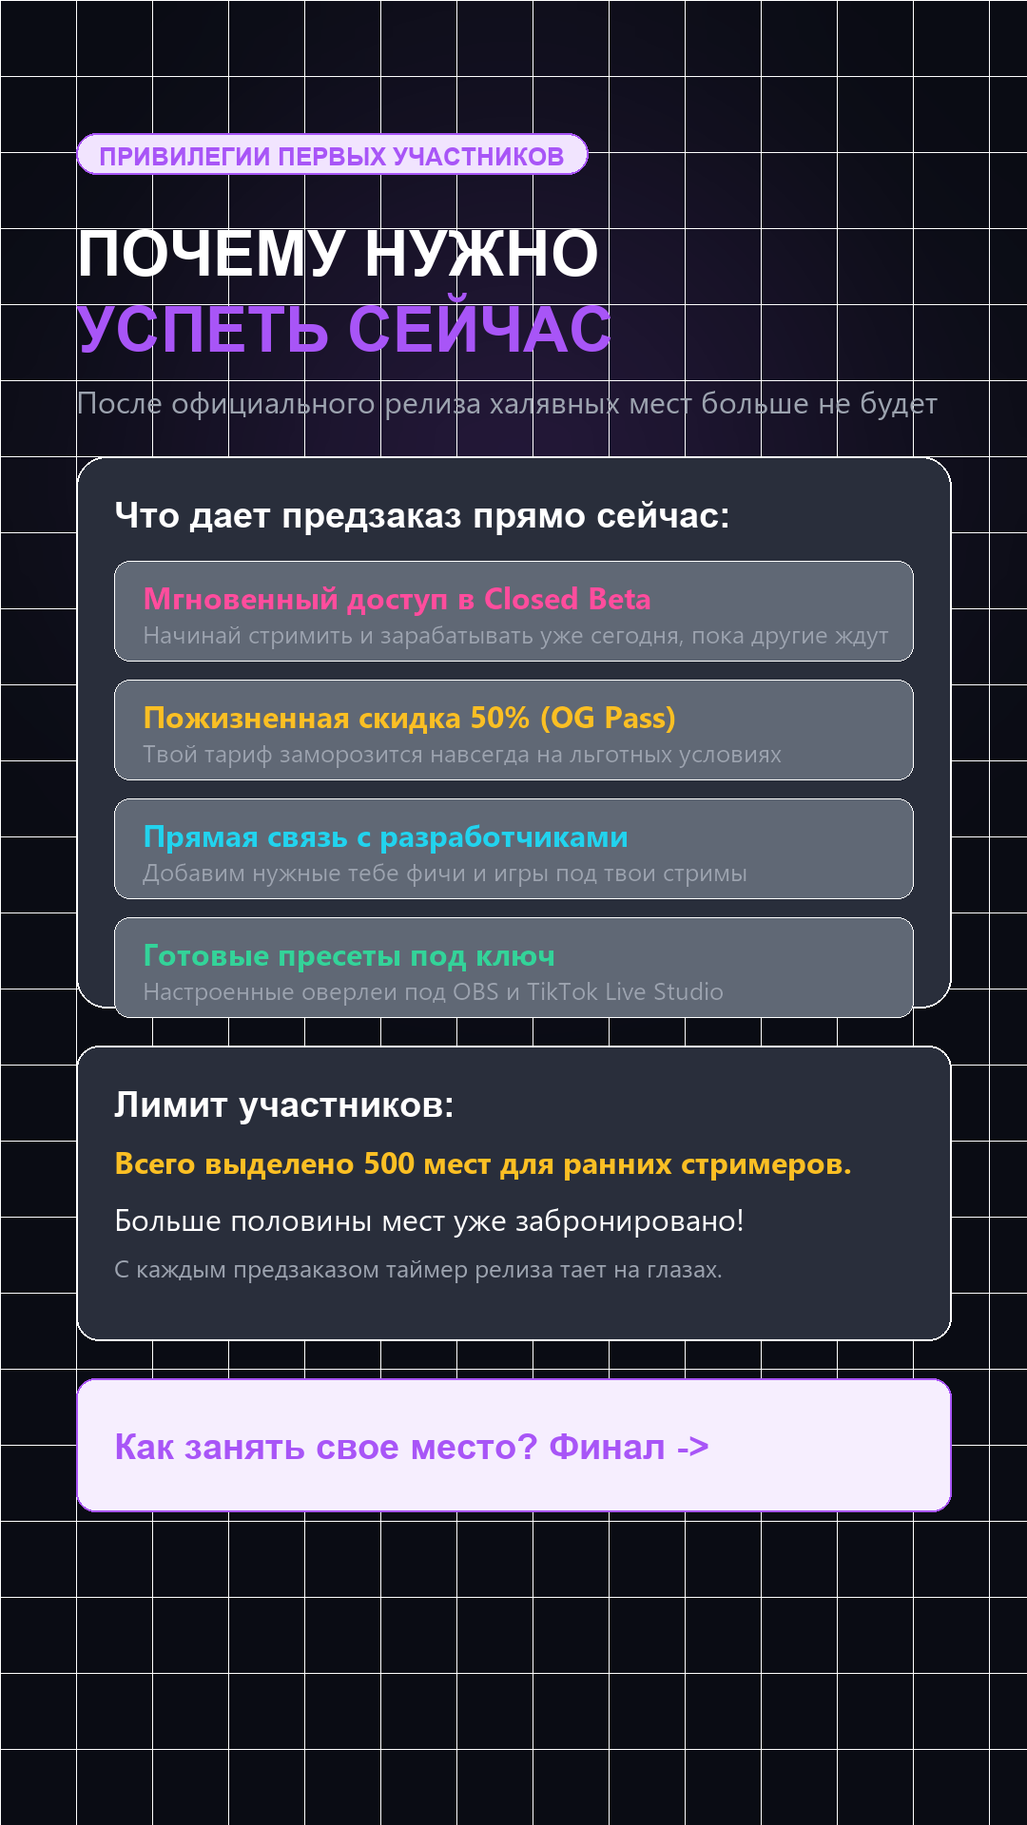
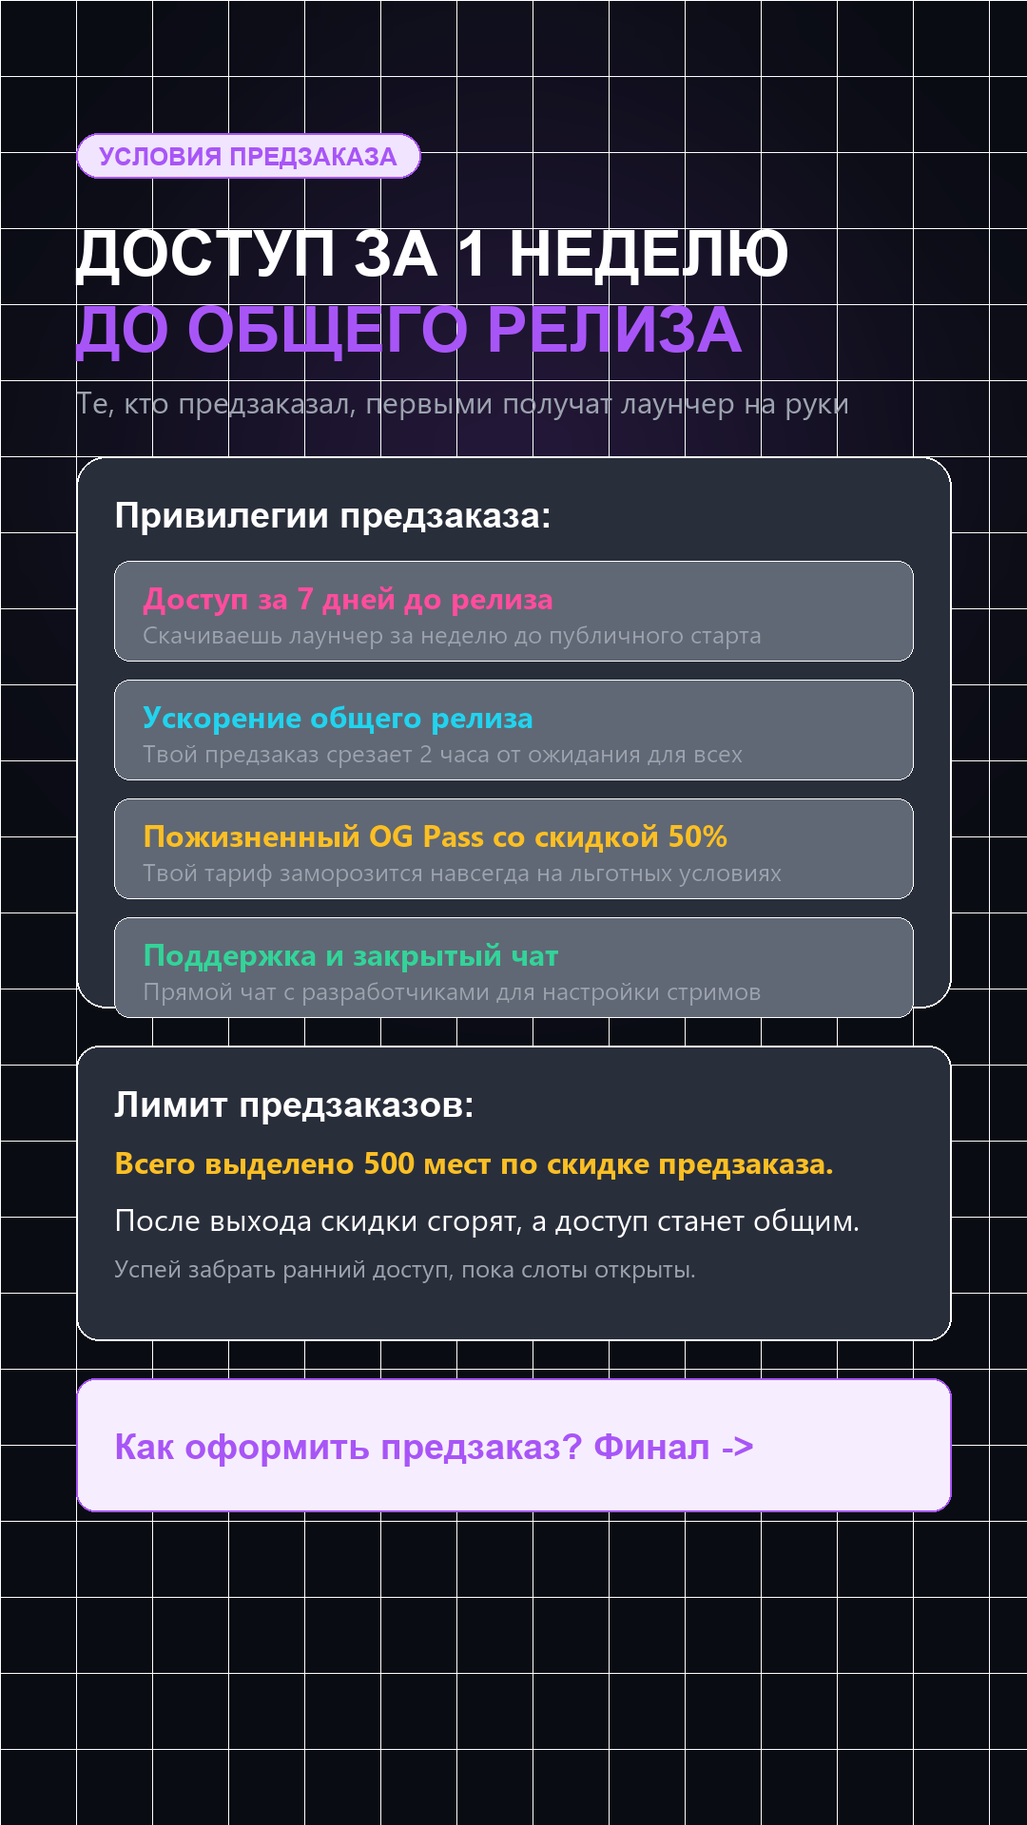
Update pre-order campaign: 1-week early access before public release
Clarify offering: launcher is in pre-order stage, pre-order buyers
receive exclusive early access 7 days prior to public launch, and
each pre-order cuts 2 hours from the community release countdown.

diff --git a/tools/gen-tiktok-preorder.py b/tools/gen-tiktok-preorder.py
@@ -2,10 +2,10 @@ import os
 import math
 from PIL import Image, ImageDraw, ImageFont, ImageFilter
 
-OUTPUT_DIR = os.path.join(os.path.dirname(__file__), "..", "branding", "tiktok_preorder")
+OUTPUT_DIR = os.path.abspath(os.path.normpath(os.path.join(os.path.dirname(__file__), "..", "branding", "tiktok_preorder")))
 os.makedirs(OUTPUT_DIR, exist_ok=True)
 
-ICON_PATH = os.path.join(os.path.dirname(__file__), "..", "branding", "chlauncher-app-icon.png")
+ICON_PATH = os.path.abspath(os.path.normpath(os.path.join(os.path.dirname(__file__), "..", "branding", "chlauncher-app-icon.png")))
 app_icon = None
 if os.path.exists(ICON_PATH):
     try:
@@ -82,12 +82,12 @@ def draw_badge(draw, text, x, y, accent_color, bg_alpha=40):
 def draw_card(draw, x, y, w, h, radius=24, border_color=CARD_BORDER, fill_color=CARD_BG):
     draw.rounded_rectangle([x, y, x + w, y + h], radius=radius, fill=fill_color, outline=border_color, width=2)
 
-# ==================== SLIDE 1: HOOK (КАЖДЫЙ ПРЕДЗАКАЗ УСКОРЯЕТ РЕЛИЗ) ====================
+# ==================== SLIDE 1: HOOK (ОТКРЫТ ТОЛЬКО ПРЕДЗАКАЗ) ====================
 def make_slide1():
     img = draw_gradient_background(glow_color=PINK, glow_y=460)
     draw = ImageDraw.Draw(img)
     
-    draw_badge(draw, "СОБЫТИЕ СЕЗОНА ДЛЯ СТРИМЕРОВ", 80, 140, PINK)
+    draw_badge(draw, "ТОЛЬКО ПРЕДЗАКАЗ · РЕЛИЗ СКОРО", 80, 140, PINK)
     
     if app_icon:
         icon_resized = app_icon.resize((170, 170), Image.Resampling.LANCZOS)
@@ -99,19 +99,19 @@ def make_slide1():
     
     # Progress Tracker Card
     draw_card(draw, 80, 700, 920, 640, radius=32, fill_color=(20, 26, 44, 240), border_color=PINK)
-    draw.text((120, 740), "Шкала ускорения релиза:", font=font_card_title, fill=WHITE)
+    draw.text((120, 740), "Как работает ускорение релиза:", font=font_card_title, fill=WHITE)
     
     # Countdown clock & progress bar
-    draw.text((120, 805), "РЕЛИЗ ЧЕРЕЗ: 4 ДНЯ 18 ЧАСОВ", font=font_body_bold, fill=AMBER)
+    draw.text((120, 805), "ПРИМЕРНАЯ ДАТА: ЧЕРЕЗ 2 НЕДЕЛИ", font=font_body_bold, fill=AMBER)
     draw.rounded_rectangle([120, 855, 960, 880], radius=10, fill=(255, 255, 255, 25))
     draw.rounded_rectangle([120, 855, 740, 880], radius=10, fill=PINK)
-    draw.text((120, 895), "72% шкалы заполнено (+260 предзаказов)", font=font_small, fill=GRAY)
+    draw.text((120, 895), "Каждый предзаказ приближает дату релиза", font=font_small, fill=GRAY)
     
     rules = [
-        ("Каждый предзаказ", "-2 ЧАСА до всеобщего релиза лаунчера", PINK),
-        ("Первые участники", "Доступ к закрытой бете УЖЕ СЕГОДНЯ", CYAN),
-        ("OG-статус навсегда", "Скидка 50% на все будущие обновления", EMERALD),
-        ("Кто первый зашел", "Тот снимает сливки с TikTok Live ниши", AMBER),
+        ("Каждый предзаказ", "-2 ЧАСА от общего времени ожидания", PINK),
+        ("Главный бонус", "Доступ к софту ЗА 1 НЕДЕЛЮ ДО РЕЛИЗА", EMERALD),
+        ("Старт без толпы", "Настроишь стримы раньше, чем набегут все", CYAN),
+        ("Пожизненный OG", "Скидка 50% на все тарифы навсегда", AMBER),
     ]
     
     ry = 950
@@ -122,31 +122,31 @@ def make_slide1():
         ry += 90
         
     draw_card(draw, 80, 1375, 920, 170, radius=24, fill_color=(255, 77, 157, 30), border_color=PINK)
-    draw.text((120, 1410), "КАК ЗАРАБАТЫВАЮТ НА ИГРАХ В TIKTOK?", font=font_card_title, fill=PINK)
-    draw.text((120, 1465), "Свайпай дальше — показываем цифры доходов ->", font=font_body, fill=WHITE)
+    draw.text((120, 1410), "ЗАЧЕМ ОФОРМЛЯТЬ ПРЕДЗАКАЗ СЕЙЧАС?", font=font_card_title, fill=PINK)
+    draw.text((120, 1465), "Свайпай дальше — показываем заработок ->", font=font_body, fill=WHITE)
     
     return img
 
-# ==================== SLIDE 2: MONEY & MARKET (СКОЛЬКО ТУТ ЗАРАБАТЫВАЮТ) ====================
+# ==================== SLIDE 2: MONEY & MARKET (ПОЧЕМУ НУЖНО ЗАЙТИ ПЕРВЫМ) ====================
 def make_slide2():
     img = draw_gradient_background(glow_color=EMERALD, glow_y=500)
     draw = ImageDraw.Draw(img)
     
-    draw_badge(draw, "ЗАРАБОТОК НА TIKTOK СТРИМАХ", 80, 140, EMERALD)
+    draw_badge(draw, "РЫНОК СТРИМОВ TIKTOK LIVE", 80, 140, EMERALD)
     
-    draw.text((80, 230), "ОТ 50 000 ДО", font=font_hero, fill=WHITE)
-    draw.text((80, 310), "300 000 РУБЛЕЙ", font=font_hero, fill=EMERALD)
-    draw.text((80, 400), "Интерактивные стримы приносят в 10 раз больше обычных", font=font_body, fill=GRAY)
+    draw.text((80, 230), "КТО ПЕРВЫЙ —", font=font_hero, fill=WHITE)
+    draw.text((80, 310), "ТОТ ЗАБИРАЕТ ВСЁ", font=font_hero, fill=EMERALD)
+    draw.text((80, 400), "Интерактивные стримы в TikTok сейчас приносят максимум", font=font_body, fill=GRAY)
     
     # Income breakdown card
     draw_card(draw, 80, 480, 920, 560, radius=32)
-    draw.text((120, 520), "Откуда берутся деньги в эфирах:", font=font_card_title, fill=WHITE)
+    draw.text((120, 520), "Что дает ранний старт на 1 неделю раньше:", font=font_card_title, fill=WHITE)
     
     incomes = [
-        ("Подарки за триггеры в играх", "Зрители спавнят TNT в Minecraft или мобов в Roblox за монеты", EMERALD),
-        ("Субатон-таймер эфира", "Хотят продолжения стрима? Донатят на продление времени", AMBER),
-        ("Платная озвучка комментариев", "Сообщения с донатом озвучиваются в приоритете", CYAN),
-        ("Донат-колесо и рулетки", "Зрители крутят рулетку наказаний и заданий для стримера", PINK),
+        ("Свободная ниша без конкурентов", "Пока другие ждут публичного релиза, ты уже в рекомендациях", EMERALD),
+        ("Первые донаты зрителей", "Зрители еще не привыкли к играм и активно донатят", AMBER),
+        ("Быстрый набор подписчиков", "Стримы с интерактивом алгоритмы TikTok бустят в ТОП", CYAN),
+        ("Доход от 50 000 до 300 000 руб", "Интерактивные игры приносят в 10 раз больше обычных стримов", PINK),
     ]
     
     iy = 585
@@ -157,11 +157,11 @@ def make_slide2():
         iy += 125
         
     draw_card(draw, 80, 1080, 920, 330, radius=24)
-    draw.text((120, 1120), "Почему обычные стримы проигрывают:", font=font_card_title, fill=WHITE)
+    draw.text((120, 1120), "Сравнение доходов на стримах:", font=font_card_title, fill=WHITE)
     facts = [
         "- Обычный разговорный стрим: 100 - 300 руб в час",
         "- Интерактивные игры: 1 500 - 5 000 руб в час",
-        "- Алгоритмы TikTok продвигают стримы с интерактивом!",
+        "- Доступ за неделю до всех = собрать всю аудиторию!",
     ]
     fy = 1185
     for f in facts:
@@ -169,7 +169,7 @@ def make_slide2():
         fy += 58
         
     draw_card(draw, 80, 1450, 920, 140, radius=20, fill_color=(52, 211, 153, 25), border_color=EMERALD)
-    draw.text((120, 1500), "Что входит в chlauncher? Смотри дальше ->", font=font_card_title, fill=EMERALD)
+    draw.text((120, 1500), "Что будет внутри лаунчера? Смотри дальше ->", font=font_card_title, fill=EMERALD)
     
     return img
 
@@ -178,11 +178,11 @@ def make_slide3():
     img = draw_gradient_background(glow_color=CYAN, glow_y=500)
     draw = ImageDraw.Draw(img)
     
-    draw_badge(draw, "ПОЛНЫЙ АРСЕНАЛ СТРИМЕРА", 80, 140, CYAN)
+    draw_badge(draw, "АРСЕНАЛ ДЛЯ ЗАРАБОТКА В ЭФИРАХ", 80, 140, CYAN)
     
     draw.text((80, 230), "ВСЕ ИНСТРУМЕНТЫ", font=font_hero, fill=WHITE)
-    draw.text((80, 310), "В ОДНОМ МЕСТЕ", font=font_hero, fill=CYAN)
-    draw.text((80, 400), "Больше не нужно запускать 10 разных сайтов и расширений", font=font_body, fill=GRAY)
+    draw.text((80, 310), "К РЕЛИЗУ ГОТОВЫ", font=font_hero, fill=CYAN)
+    draw.text((80, 400), "Софт уже готов — сейчас финальное тестирование и предзаказ", font=font_body, fill=GRAY)
     
     features = [
         ("Таймер Субатона", "Подарки и лайки двигают шкалу времени в прямом эфире", AMBER),
@@ -200,33 +200,33 @@ def make_slide3():
         fy += 140
         
     draw_card(draw, 80, 1220, 920, 190, radius=24, fill_color=(34, 211, 238, 25), border_color=CYAN)
-    draw.text((120, 1260), "РАБОТАЕТ В 1 КЛИК", font=font_card_title, fill=CYAN)
-    draw.text((120, 1320), "Вход через QR-код прямо с телефона без мучений с токенами!", font=font_body, fill=WHITE)
+    draw.text((120, 1260), "БЕЗ ПОДПИСОК ЗА 15$/МЕС", font=font_card_title, fill=CYAN)
+    draw.text((120, 1320), "Отечественный софт для СНГ-стримеров без зарубежных оплат", font=font_body, fill=WHITE)
     
     draw_card(draw, 80, 1450, 920, 140, radius=20, fill_color=(251, 191, 36, 25), border_color=AMBER)
     draw.text((120, 1500), "Что дает предзаказ прямо сейчас? ->", font=font_card_title, fill=AMBER)
     
     return img
 
-# ==================== SLIDE 4: PRE-ORDER PERKS (БОНУСЫ РАННИХ ПРЕДЗАКАЗОВ) ====================
+# ==================== SLIDE 4: PRE-ORDER PERKS (ДОСТУП ЗА НЕДЕЛЮ ДО РЕЛИЗА) ====================
 def make_slide4():
     img = draw_gradient_background(glow_color=PURPLE, glow_y=500)
     draw = ImageDraw.Draw(img)
     
-    draw_badge(draw, "ПРИВИЛЕГИИ ПЕРВЫХ УЧАСТНИКОВ", 80, 140, PURPLE)
+    draw_badge(draw, "УСЛОВИЯ ПРЕДЗАКАЗА", 80, 140, PURPLE)
     
-    draw.text((80, 230), "ПОЧЕМУ НУЖНО", font=font_hero, fill=WHITE)
-    draw.text((80, 310), "УСПЕТЬ СЕЙЧАС", font=font_hero, fill=PURPLE)
-    draw.text((80, 400), "После официального релиза халявных мест больше не будет", font=font_body, fill=GRAY)
+    draw.text((80, 230), "ДОСТУП ЗА 1 НЕДЕЛЮ", font=font_hero, fill=WHITE)
+    draw.text((80, 310), "ДО ОБЩЕГО РЕЛИЗА", font=font_hero, fill=PURPLE)
+    draw.text((80, 400), "Те, кто предзаказал, первыми получат лаунчер на руки", font=font_body, fill=GRAY)
     
     draw_card(draw, 80, 480, 920, 580, radius=32)
-    draw.text((120, 520), "Что дает предзаказ прямо сейчас:", font=font_card_title, fill=WHITE)
+    draw.text((120, 520), "Привилегии предзаказа:", font=font_card_title, fill=WHITE)
     
     perks = [
-        ("Мгновенный доступ в Closed Beta", "Начинай стримить и зарабатывать уже сегодня, пока другие ждут", PINK),
-        ("Пожизненная скидка 50% (OG Pass)", "Твой тариф заморозится навсегда на льготных условиях", AMBER),
-        ("Прямая связь с разработчиками", "Добавим нужные тебе фичи и игры под твои стримы", CYAN),
-        ("Готовые пресеты под ключ", "Настроенные оверлеи под OBS и TikTok Live Studio", EMERALD),
+        ("Доступ за 7 дней до релиза", "Скачиваешь лаунчер за неделю до публичного старта", PINK),
+        ("Ускорение общего релиза", "Твой предзаказ срезает 2 часа от ожидания для всех", CYAN),
+        ("Пожизненный OG Pass со скидкой 50%", "Твой тариф заморозится навсегда на льготных условиях", AMBER),
+        ("Поддержка и закрытый чат", "Прямой чат с разработчиками для настройки стримов", EMERALD),
     ]
     
     py = 590
@@ -237,13 +237,13 @@ def make_slide4():
         py += 125
         
     draw_card(draw, 80, 1100, 920, 310, radius=24)
-    draw.text((120, 1140), "Лимит участников:", font=font_card_title, fill=WHITE)
-    draw.text((120, 1200), "Всего выделено 500 мест для ранних стримеров.", font=font_body_bold, fill=AMBER)
-    draw.text((120, 1260), "Больше половины мест уже забронировано!", font=font_body, fill=WHITE)
-    draw.text((120, 1315), "С каждым предзаказом таймер релиза тает на глазах.", font=font_small, fill=GRAY)
+    draw.text((120, 1140), "Лимит предзаказов:", font=font_card_title, fill=WHITE)
+    draw.text((120, 1200), "Всего выделено 500 мест по скидке предзаказа.", font=font_body_bold, fill=AMBER)
+    draw.text((120, 1260), "После выхода скидки сгорят, а доступ станет общим.", font=font_body, fill=WHITE)
+    draw.text((120, 1315), "Успей забрать ранний доступ, пока слоты открыты.", font=font_small, fill=GRAY)
     
     draw_card(draw, 80, 1450, 920, 140, radius=20, fill_color=(168, 85, 247, 25), border_color=PURPLE)
-    draw.text((120, 1500), "Как занять свое место? Финал ->", font=font_card_title, fill=PURPLE)
+    draw.text((120, 1500), "Как оформить предзаказ? Финал ->", font=font_card_title, fill=PURPLE)
     
     return img
 
@@ -252,7 +252,7 @@ def make_slide5():
     img = draw_gradient_background(glow_color=PINK, glow_y=500)
     draw = ImageDraw.Draw(img)
     
-    draw_badge(draw, "БРОНИРУЙ МЕСТО В ПЕРВОЙ ВОЛНЕ", 80, 140, PINK)
+    draw_badge(draw, "БРОНИРУЙ МЕСТО В ПРЕДЗАКАЗЕ", 80, 140, PINK)
     
     if app_icon:
         icon_resized = app_icon.resize((240, 240), Image.Resampling.LANCZOS)
@@ -260,21 +260,22 @@ def make_slide5():
         
     draw.text((W // 2 - 240, 500), "CHLAUNCHER", font=font_hero, fill=WHITE)
     draw.text((W // 2 - 310, 590), "ПРЕДЗАКАЗ ОТКРЫТ", font=font_title, fill=PINK)
-    draw.text((W // 2 - 330, 670), "Ускорь релиз и заходи в бета-тест прямо сейчас", font=font_body, fill=GRAY)
+    draw.text((W // 2 - 340, 670), "Получи софт за неделю до релиза и ускори дату", font=font_body, fill=GRAY)
     
     draw_card(draw, 80, 750, 920, 480, radius=28)
-    draw.text((120, 790), "Как оформить предзаказ за 1 минуту:", font=font_card_title, fill=WHITE)
+    draw.text((120, 790), "Как оформить предзаказ прямо сейчас:", font=font_card_title, fill=WHITE)
     
     steps = [
         "1. Переходи по ссылке в шапке профиля TikTok",
         "2. Заходи в наш Telegram-канал или бота @chlnchbot",
-        "3. Нажимай «Предзаказ» — получи OG-роль и доступ к бете",
-        "4. Каждый предзаказ срезает 2 ЧАСА до всеобщего релиза!",
+        "3. Бронируй предзаказ — получай OG-скидку 50%",
+        "4. Твой предзаказ ускорит дату релиза на 2 ЧАСА!",
+        "5. За 1 неделю до всех получишь готовый лаунчер!",
     ]
-    sy = 860
+    sy = 855
     for s in steps:
-        draw.text((120, sy), s, font=font_body_bold if "2 ЧАСА" in s else font_body, fill=AMBER if "2 ЧАСА" in s else WHITE)
-        sy += 65
+        draw.text((120, sy), s, font=font_body_bold if "1 неделю" in s or "2 ЧАСА" in s else font_body, fill=AMBER if "1 неделю" in s else (PINK if "2 ЧАСА" in s else WHITE))
+        sy += 58
         
     draw_card(draw, 80, 1270, 920, 260, radius=32, fill_color=(255, 77, 157, 45), border_color=PINK)
     draw.text((140, 1310), "ССЫЛКА НА КАНАЛ И ПРЕДЗАКАЗ:", font=font_badge, fill=PINK)
